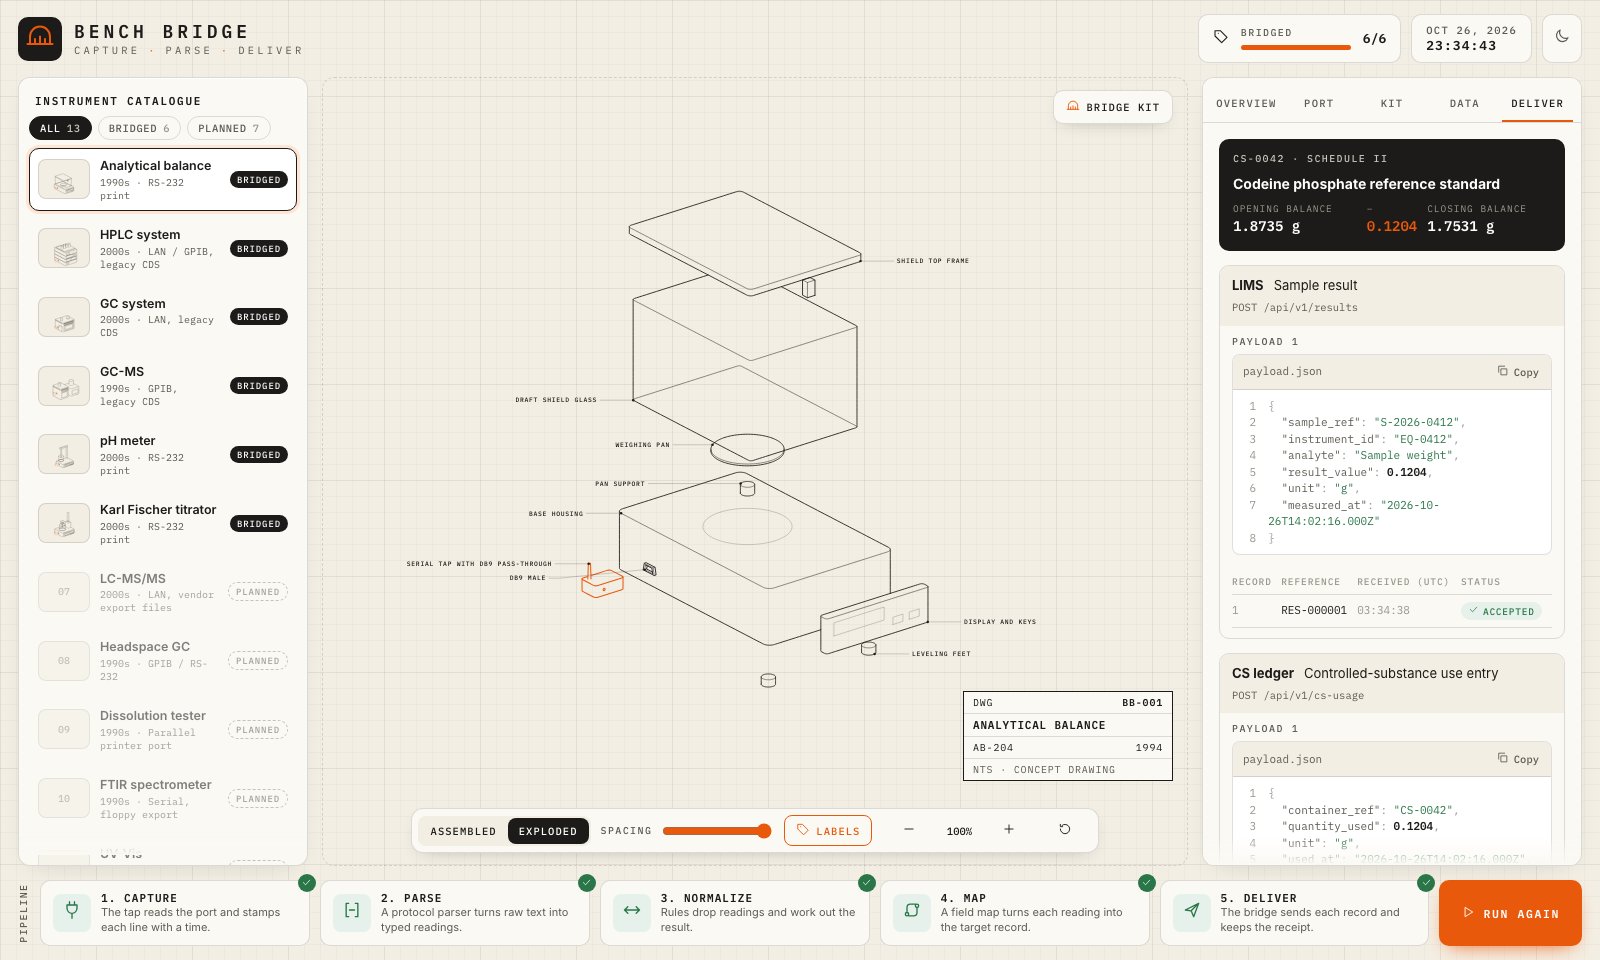
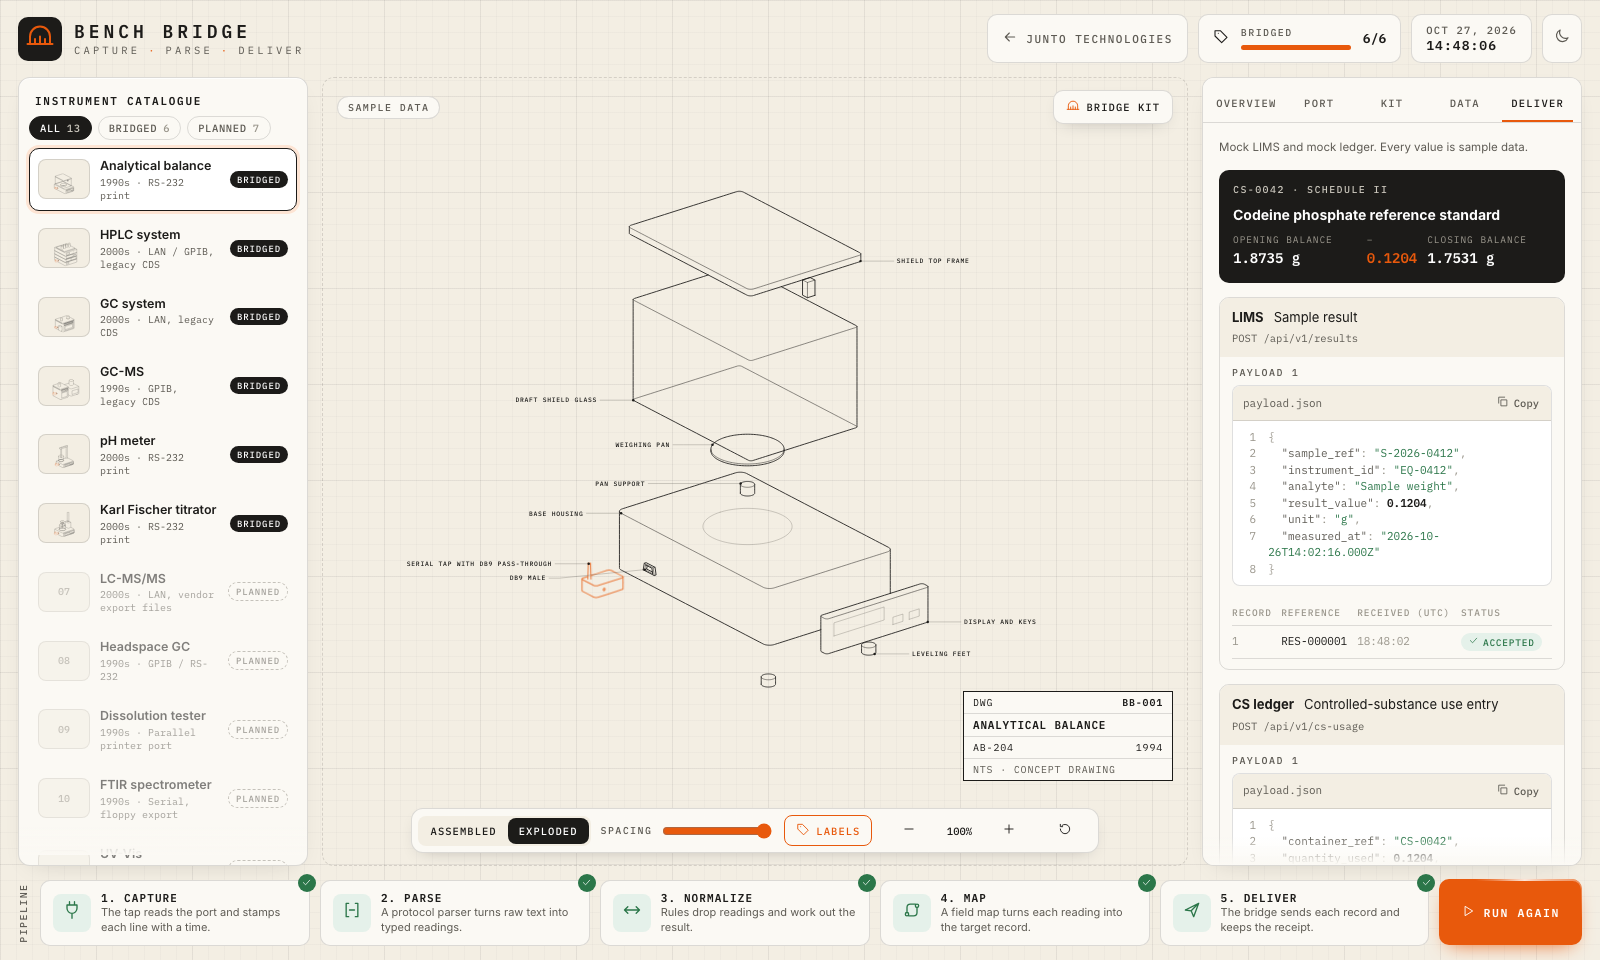
Match the hub copy, refresh the pictures and point to the taste spec
The README opening, the SEO description and summary, and the source link
label now use the words of the hub card: older lab instruments feed a LIMS
and a controlled-substance ledger, and the source link says Source on GitHub.
npm run seo rewrote the discovery files, the page tags and the Open Graph
image. npm run media made the README screenshot and GIF again, so they show
the new look. The root AGENTS.md names design/SPEC.md and the shared
site-taste skill, and records the one-time PR exception.

Claude-Session: https://claude.ai/code/session_01CqjQfdrAKLtMmjtwLw9jWz

diff --git a/client/index.html b/client/index.html
@@ -5,7 +5,7 @@
     <meta name="viewport" content="width=device-width, initial-scale=1.0, viewport-fit=cover" />
     <!-- seo:head:start (generated by npm run seo from site/seo.json; do not edit) -->
     <title>Bench Bridge demo: older lab instruments feed a LIMS</title>
-    <meta name="description" content="Demo with sample data. It shows how older lab instruments can feed a laboratory information management system (LIMS) and controlled-substance ledgers." />
+    <meta name="description" content="Demo with sample data. It shows how older lab instruments feed a laboratory information management system (LIMS) and a controlled-substance ledger." />
     <link rel="canonical" href="https://bench-bridge.juntotechnologies.com/" />
     <meta name="robots" content="index, follow, max-image-preview:large" />
     <meta name="theme-color" content="#f3eee3" media="(prefers-color-scheme: light)" />
@@ -16,7 +16,7 @@
     <meta property="og:type" content="website" />
     <meta property="og:site_name" content="Bench Bridge demo" />
     <meta property="og:title" content="Bench Bridge demo: older lab instruments feed a LIMS" />
-    <meta property="og:description" content="Demo with sample data. It shows how older lab instruments can feed a laboratory information management system (LIMS) and controlled-substance ledgers." />
+    <meta property="og:description" content="Demo with sample data. It shows how older lab instruments feed a laboratory information management system (LIMS) and a controlled-substance ledger." />
     <meta property="og:url" content="https://bench-bridge.juntotechnologies.com/" />
     <meta property="og:locale" content="en_US" />
     <meta property="og:image" content="https://bench-bridge.juntotechnologies.com/og.png" />
@@ -25,7 +25,7 @@
     <meta property="og:image:alt" content="The Bench Bridge demo with sample data. It shows an instrument list, a concept drawing and the records that go to a LIMS and a ledger." />
     <meta name="twitter:card" content="summary_large_image" />
     <meta name="twitter:title" content="Bench Bridge demo: older lab instruments feed a LIMS" />
-    <meta name="twitter:description" content="Demo with sample data. It shows how older lab instruments can feed a laboratory information management system (LIMS) and controlled-substance ledgers." />
+    <meta name="twitter:description" content="Demo with sample data. It shows how older lab instruments feed a laboratory information management system (LIMS) and a controlled-substance ledger." />
     <meta name="twitter:image" content="https://bench-bridge.juntotechnologies.com/og.png" />
     <meta name="twitter:image:alt" content="The Bench Bridge demo with sample data. It shows an instrument list, a concept drawing and the records that go to a LIMS and a ledger." />
     <script type="application/ld+json">
@@ -43,7 +43,7 @@
             "@id": "https://juntotechnologies.com/#bench-bridge",
             "name": "Bench Bridge demo",
             "alternateName": "Bench Bridge",
-            "description": "Demo with sample data. It shows how older lab instruments can feed a laboratory information management system (LIMS) and controlled-substance ledgers.",
+            "description": "Demo with sample data. It shows how older lab instruments feed a laboratory information management system (LIMS) and a controlled-substance ledger.",
             "url": "https://bench-bridge.juntotechnologies.com/",
             "image": "https://bench-bridge.juntotechnologies.com/og.png",
             "inLanguage": "en",
@@ -72,9 +72,9 @@
     <!-- seo:body:start (generated by npm run seo from site/seo.json; do not edit) -->
     <noscript>
       <h1>Bench Bridge demo</h1>
-      <p>Bench Bridge is a demo with sample data. It shows how older lab instruments can feed a laboratory information management system (LIMS) and controlled-substance ledgers.</p>
+      <p>Bench Bridge is a demo with sample data. It shows how older lab instruments feed a laboratory information management system (LIMS) and a controlled-substance ledger.</p>
       <p>This demo needs JavaScript to run.</p>
-      <ul><li><a href="https://juntotechnologies.com/">Junto Technologies</a>: The maker of Bench Bridge.</li><li><a href="https://github.com/juntotechnologies/bench-bridge">Source code</a>: The code of the demo.</li><li><a href="https://cal.com/shaun-porwal-junto/30min">Book a call</a>: Talk to the maker.</li></ul>
+      <ul><li><a href="https://juntotechnologies.com/">Junto Technologies</a>: The maker of Bench Bridge.</li><li><a href="https://github.com/juntotechnologies/bench-bridge">Source on GitHub</a>: The code of the demo.</li><li><a href="https://cal.com/shaun-porwal-junto/30min">Book a call</a>: Talk to the maker.</li></ul>
     </noscript>
     <!-- seo:body:end -->
     <script type="module" src="/main.ts"></script>

diff --git a/README.md b/README.md
@@ -1,6 +1,7 @@
 # Bench Bridge
 
-Demo that connects older lab instruments to a LIMS and a controlled-substance (CS) ledger.
+A demo of how older lab instruments feed a LIMS and a controlled-substance (CS) ledger.
+One reading becomes a sample result in the LIMS and a use entry in the CS ledger. Both are mock in the demo. All data is sample data.
 Live today: <!-- gen:fact catalog.liveNames -->Analytical balance, HPLC system, GC system, GC-MS, pH meter, and Karl Fischer titrator<!-- /gen -->. <!-- gen:fact catalog.planned -->7<!-- /gen --> more instruments are planned.
 The demo has no database. The ledger is stateless: every run starts from the same opening balance.
 
@@ -47,7 +48,7 @@ Every directory has an `AGENTS.md` with its domain knowledge and rules.
 | `npm run check` | Typecheck, lint, test, check the drawings, build and build the static site |
 | `npm run docs` | Rewrites every generated block from its source |
 | `npm run media` | Builds the static site, records it, and writes the README screenshot and GIF |
-| `npm run fit` | Builds the static site, opens it at nine window sizes, and fails when the page scrolls or a region is clipped |
+| `npm run fit` | Builds the static site, opens it at nine window sizes, and fails when the page scrolls, a region is clipped, a control is too small to tap, or the layout budget breaks |
 | `npm run design` | Writes design/tokens.css, SPEC.md and spec.lock from the JSON sources |
 | `npm run seo` | Writes the discovery files, icons and home page tags from site/seo.json |
 <!-- /gen -->

diff --git a/AGENTS.md b/AGENTS.md
@@ -7,6 +7,7 @@ When working on coding with me, follow this workflow.
 - Show no prices anywhere in the demo. Name a vendor only as a labelled example part, and say it is not an endorsement.
 - Commit early and often, directly on `main`, and push after each commit.
 - Do not write PR docs or open PRs until Shaun ends demo mode.
+- Exception, 2026-10-27: Shaun asked for a PR on `feature/alive-and-parity` and gave full authority to merge it. Write a PR doc for it. Merge it yourself after the checks pass.
 
 ## 1. Discuss First
 
@@ -158,6 +159,7 @@ discard someone else's uncommitted work without asking.
 - Every code file starts with a one-line `/** ... */` docstring. Lint enforces it.
 - Every function takes and returns named types. Data shapes are `interface`s or schema-inferred types, never inline object types.
 - `design/` holds the design spec. Take every colour, radius, shadow and timing from `design/tokens.json`. Copy `design/` to a new project to reuse the look.
+- `design/SPEC.md` is this app's taste, generated from `design/`. The shared `site-taste` skill in `agent-skills` holds the rules that every Junto site shares. Change the look in `design/`. Change a shared rule in the skill.
 
 ## 13. Docs Derive From Sources (decided by Shaun)
 
